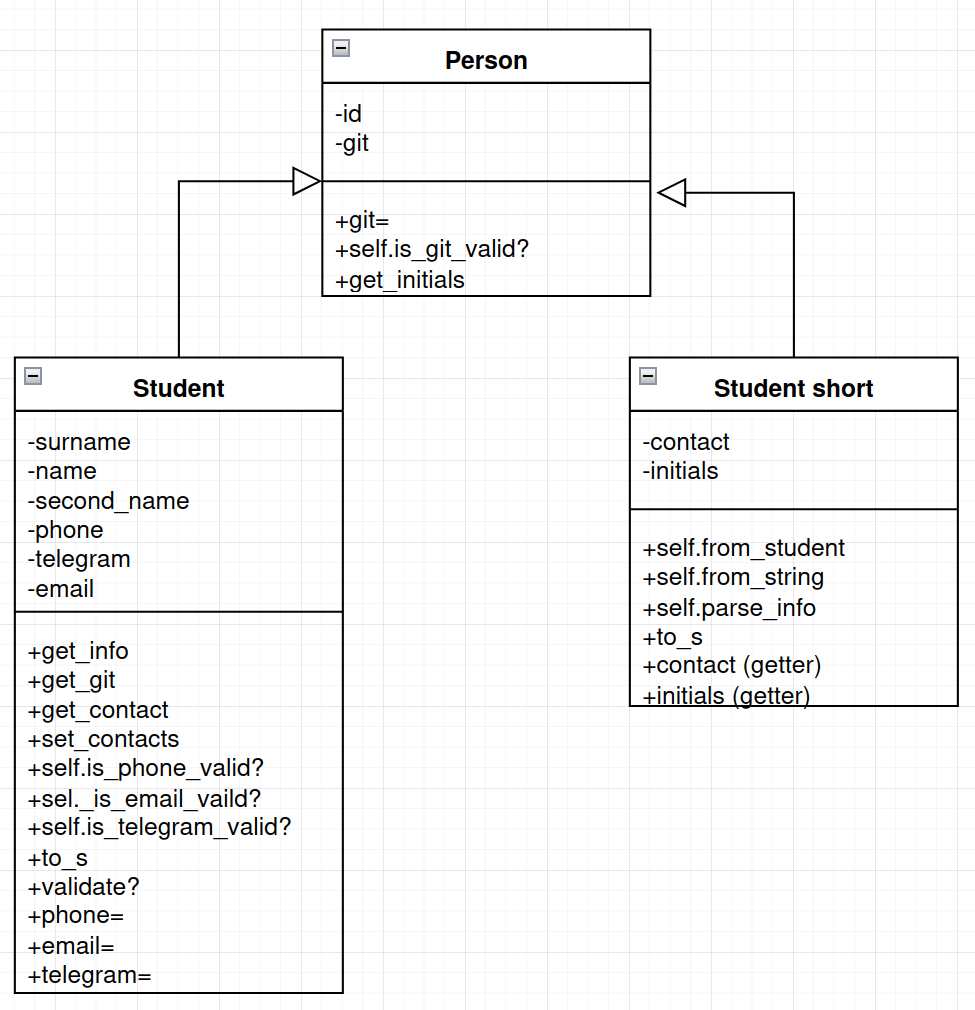
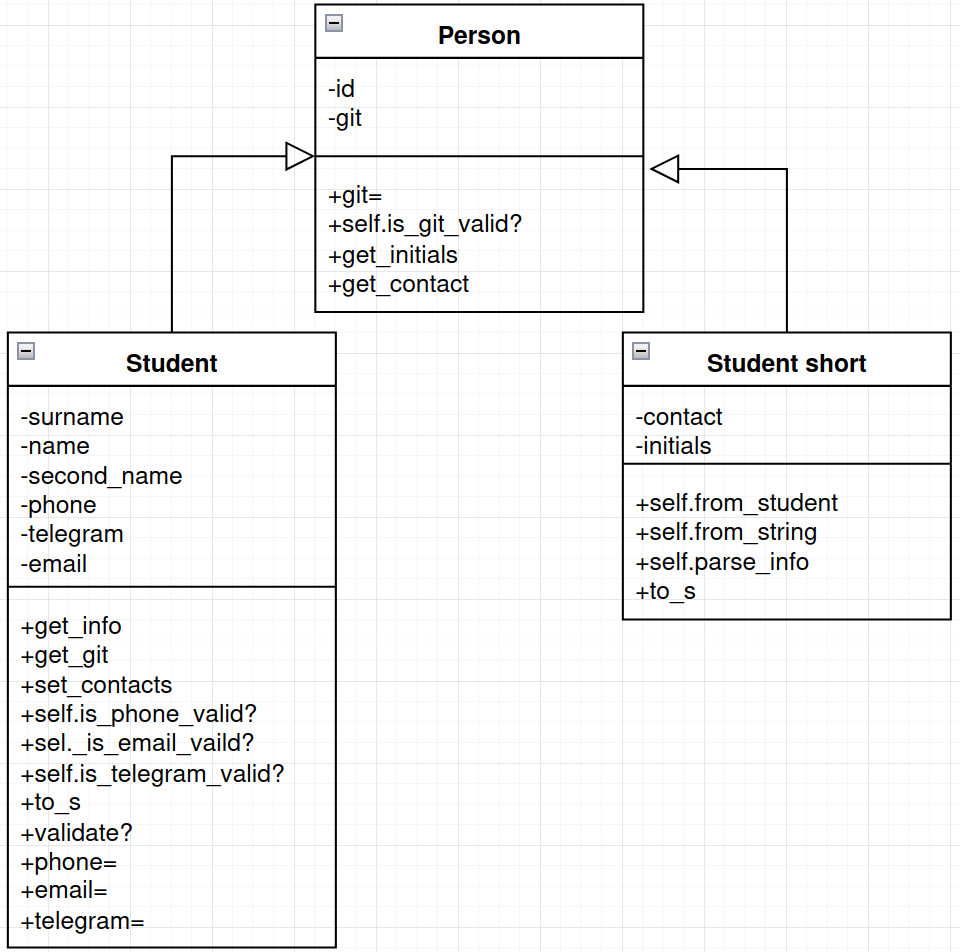
Lab 2, task 2.5 && 2.6
Replaces some methods and updates diagram

Changed region(s): [[0.0, 0.0, 1.0, 1.0]]

diff --git a/students/short_student_class.rb b/students/short_student_class.rb
@@ -1,7 +1,6 @@
 require_relative 'person_class.rb'
 
 class Short_student < Person
-  attr_reader :initials, :contact
   def initialize(id: nil, initials: nil, git: nil, contact: nil)
     super(id: id, git: git)
     @initials = initials
@@ -24,5 +23,9 @@ class Short_student < Person
 
   def to_s
     "ID: #{@id}, Initials: #{@initials}, Git: #{@git}, Contact: #{@contact}"
+  end
+
+  def get_contact
+    @contact
   end
 end

diff --git a/students/person_class.rb b/students/person_class.rb
@@ -28,4 +28,8 @@ class Person
       "#{@surname} #{@name[0]}.#{@second_name[0]}."
     end
   end
+
+  def get_contact
+
+  end
 end
